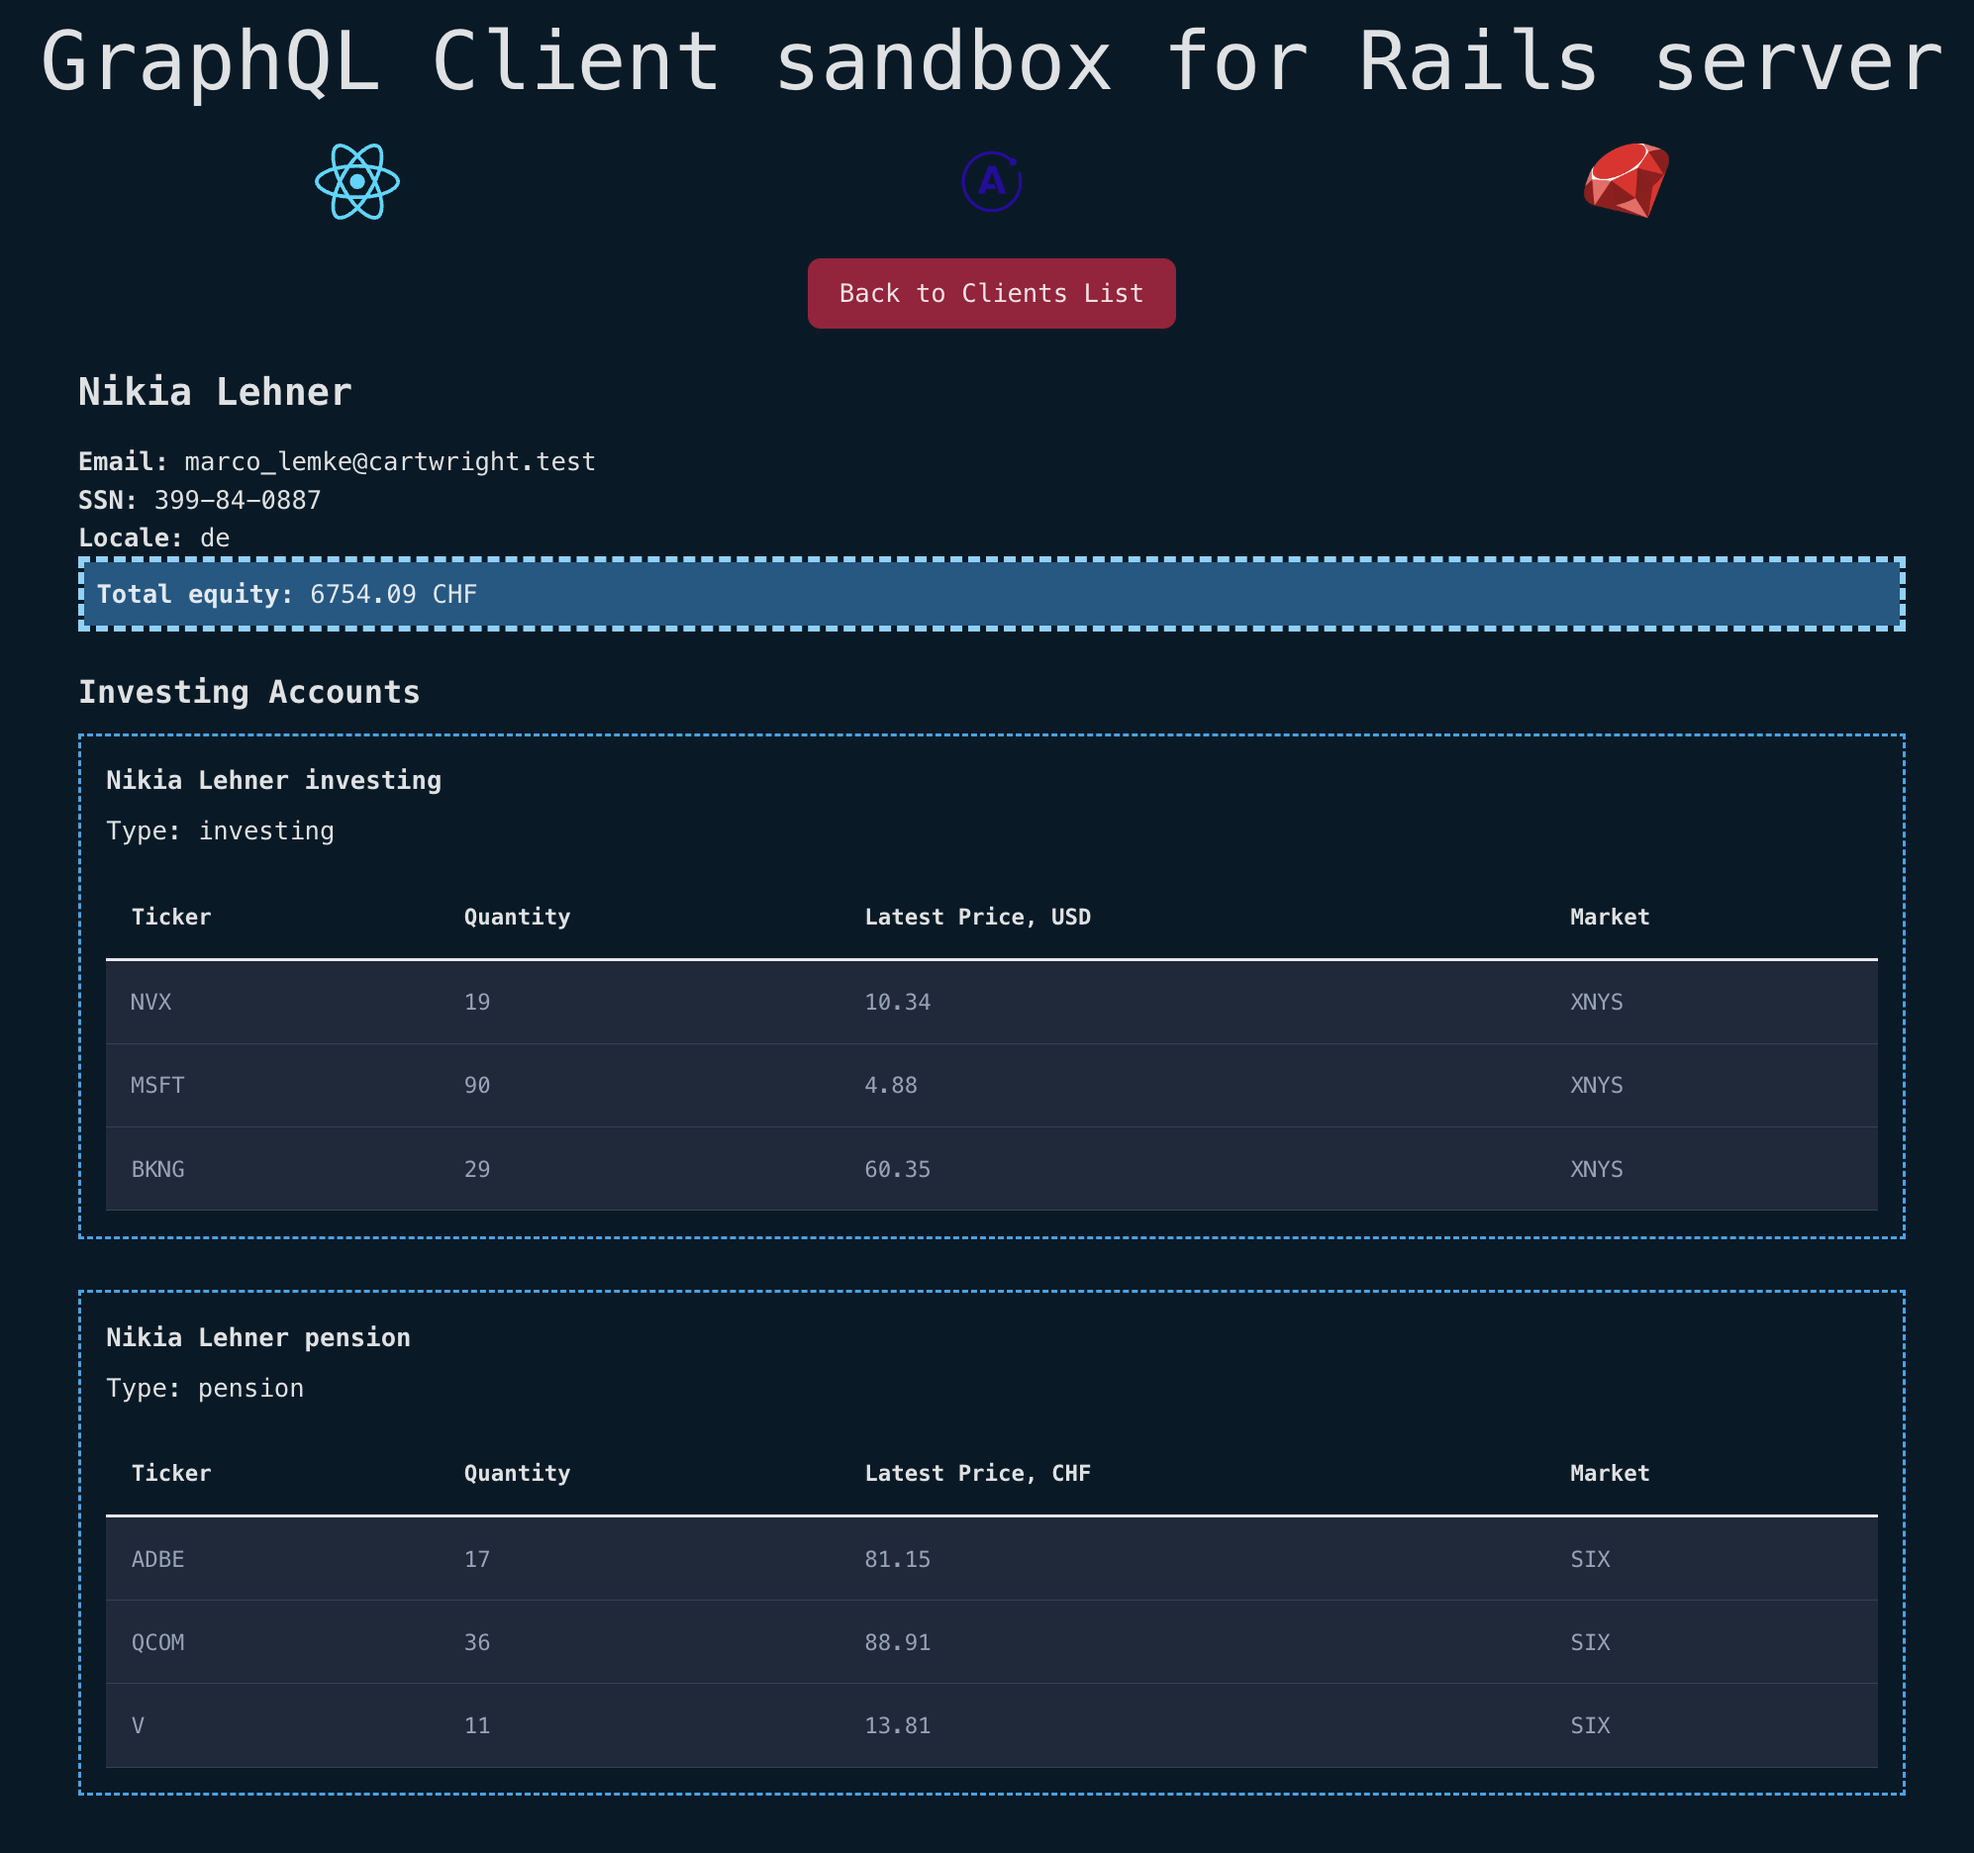
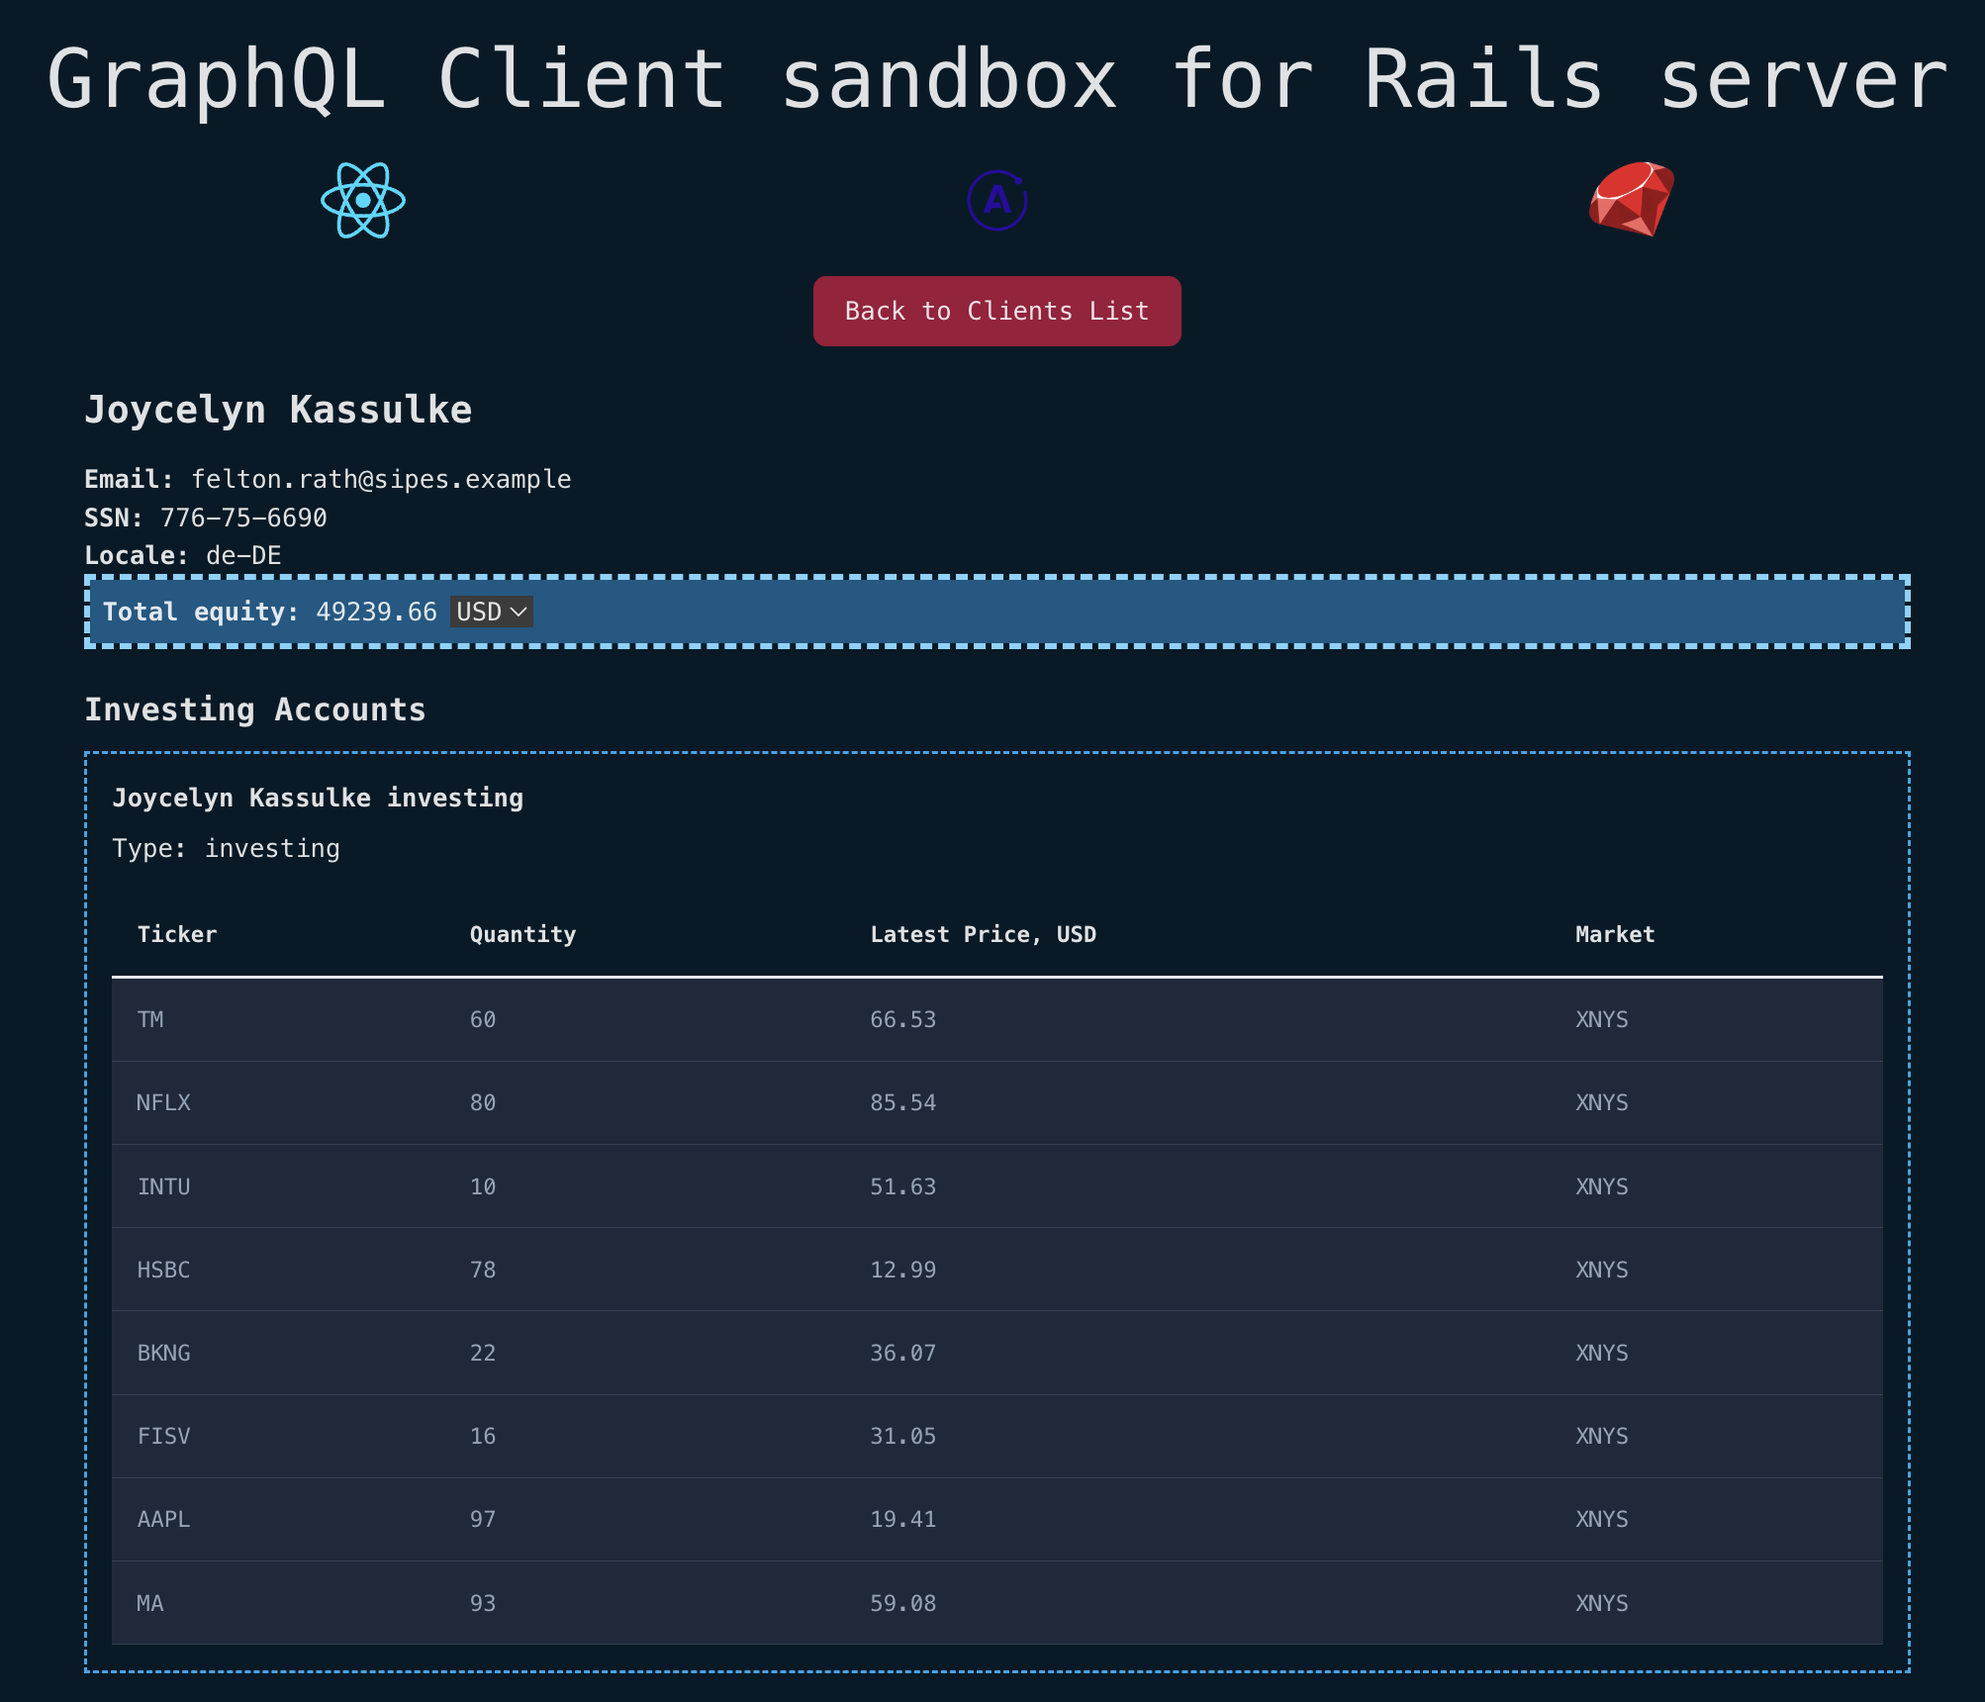
Update README and example screenshot

diff --git a/README.md b/README.md
@@ -10,5 +10,6 @@ bun run dev
 ## Index page:
 ![Index page](./examples/1.png)
 ## Client profile page:
+Currency dropdown allows to select currency for account total equity and recalculate it on-the-fly.
 ![Show page](./examples/2.png)
-### TODO: Form for mutations and currency dropdown select for totalEquity field
+### TODO: Form for mutations
